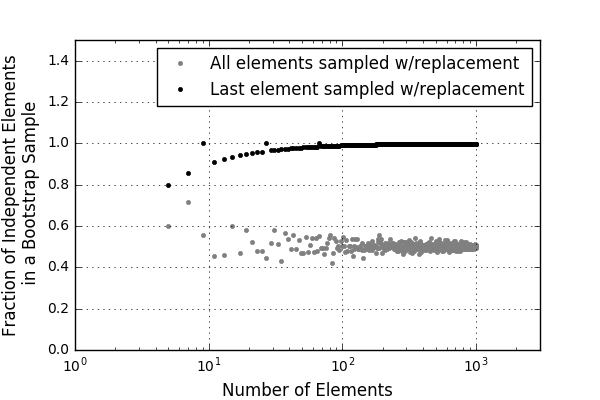
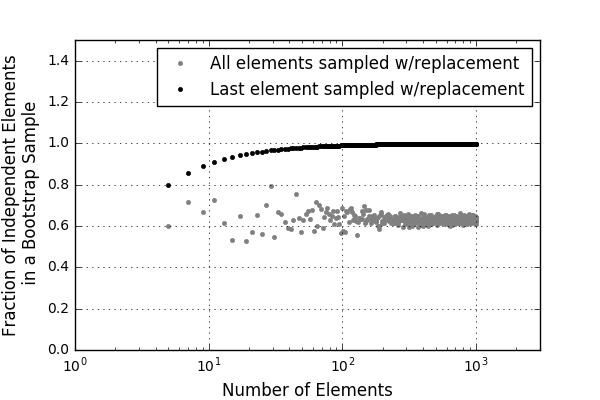
fixed bug in generating figure 11

diff --git a/PAPER.tex b/PAPER.tex
@@ -1425,7 +1425,7 @@ described in Section \ref{sec:ErrorOverview}.
 
 The single replacement strategy also provides a higher sensitivity estimate as only at most one baseline is repeated in each 
 group. In P64, baselines were chosen for groups randomly with replacement. In doing so, $\sim3$$-4$ baselines per group 
-were repeated (Figure \ref{fig:toy_error2} shows the fraction of independent samples to be $\sim$$55\%$ for $10$ total 
+were repeated (Figure \ref{fig:toy_error2} shows the fraction of independent samples to be $\sim$$63\%$ for $10$ total 
 independent samples) which sacrificed some sensitivity. 
 
 Power spectrum estimates with these bootstrapping changes for PAPER-64 fringe-rate filtered data are shown in Figure 
